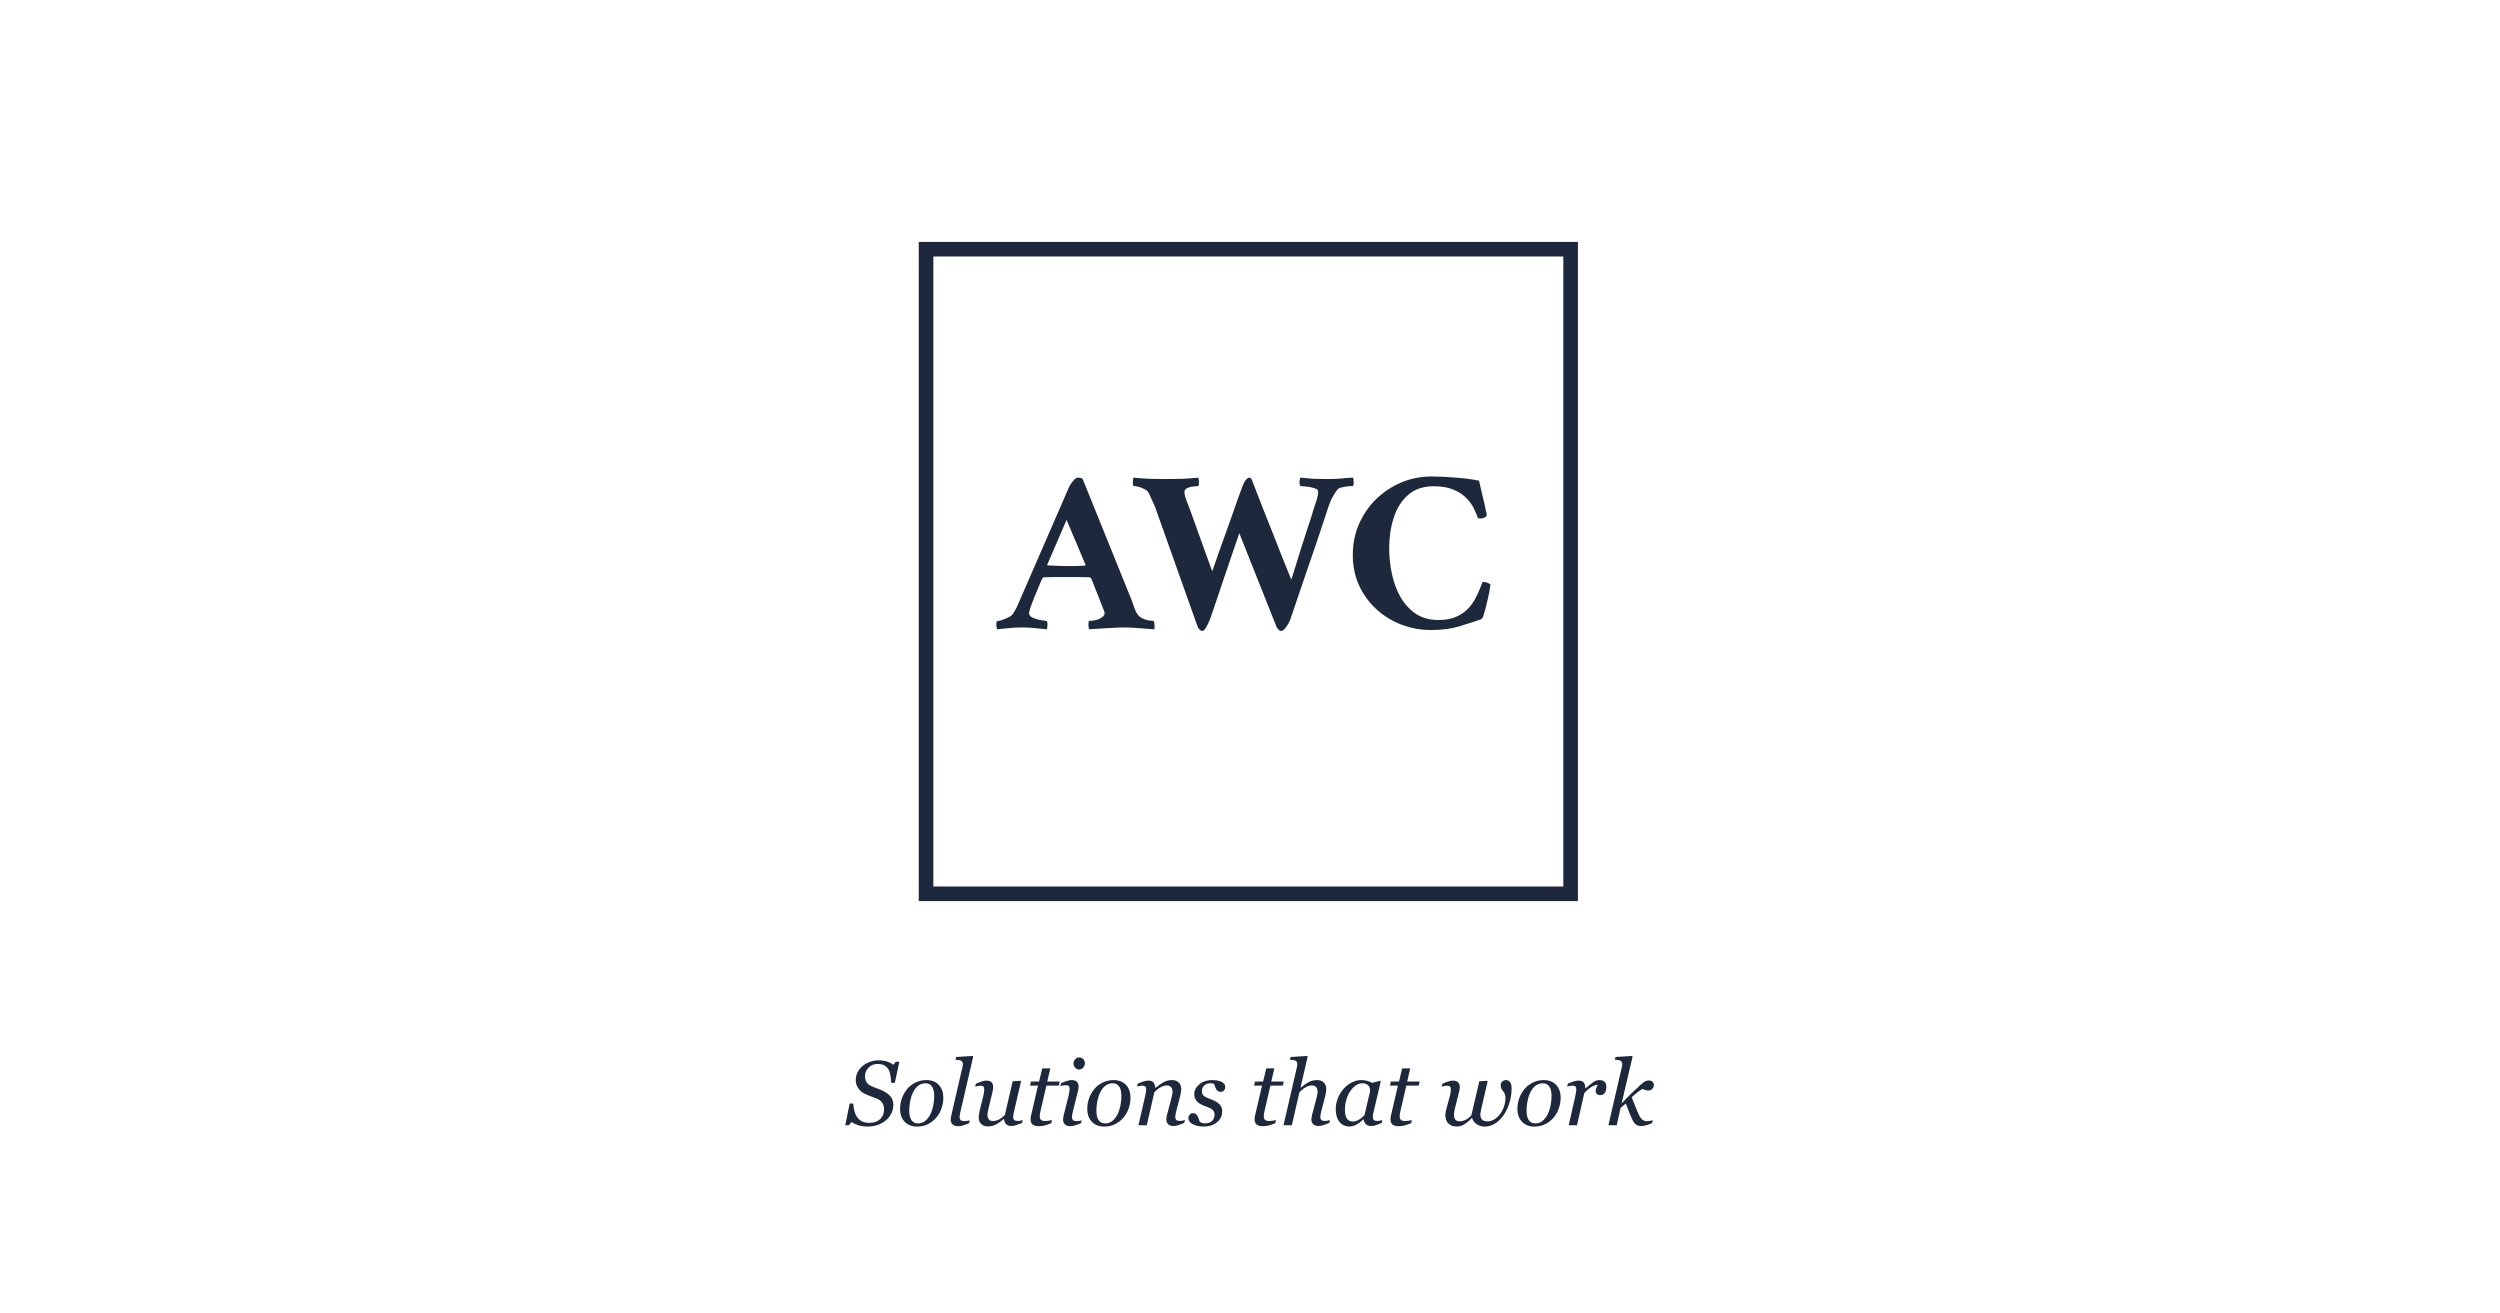
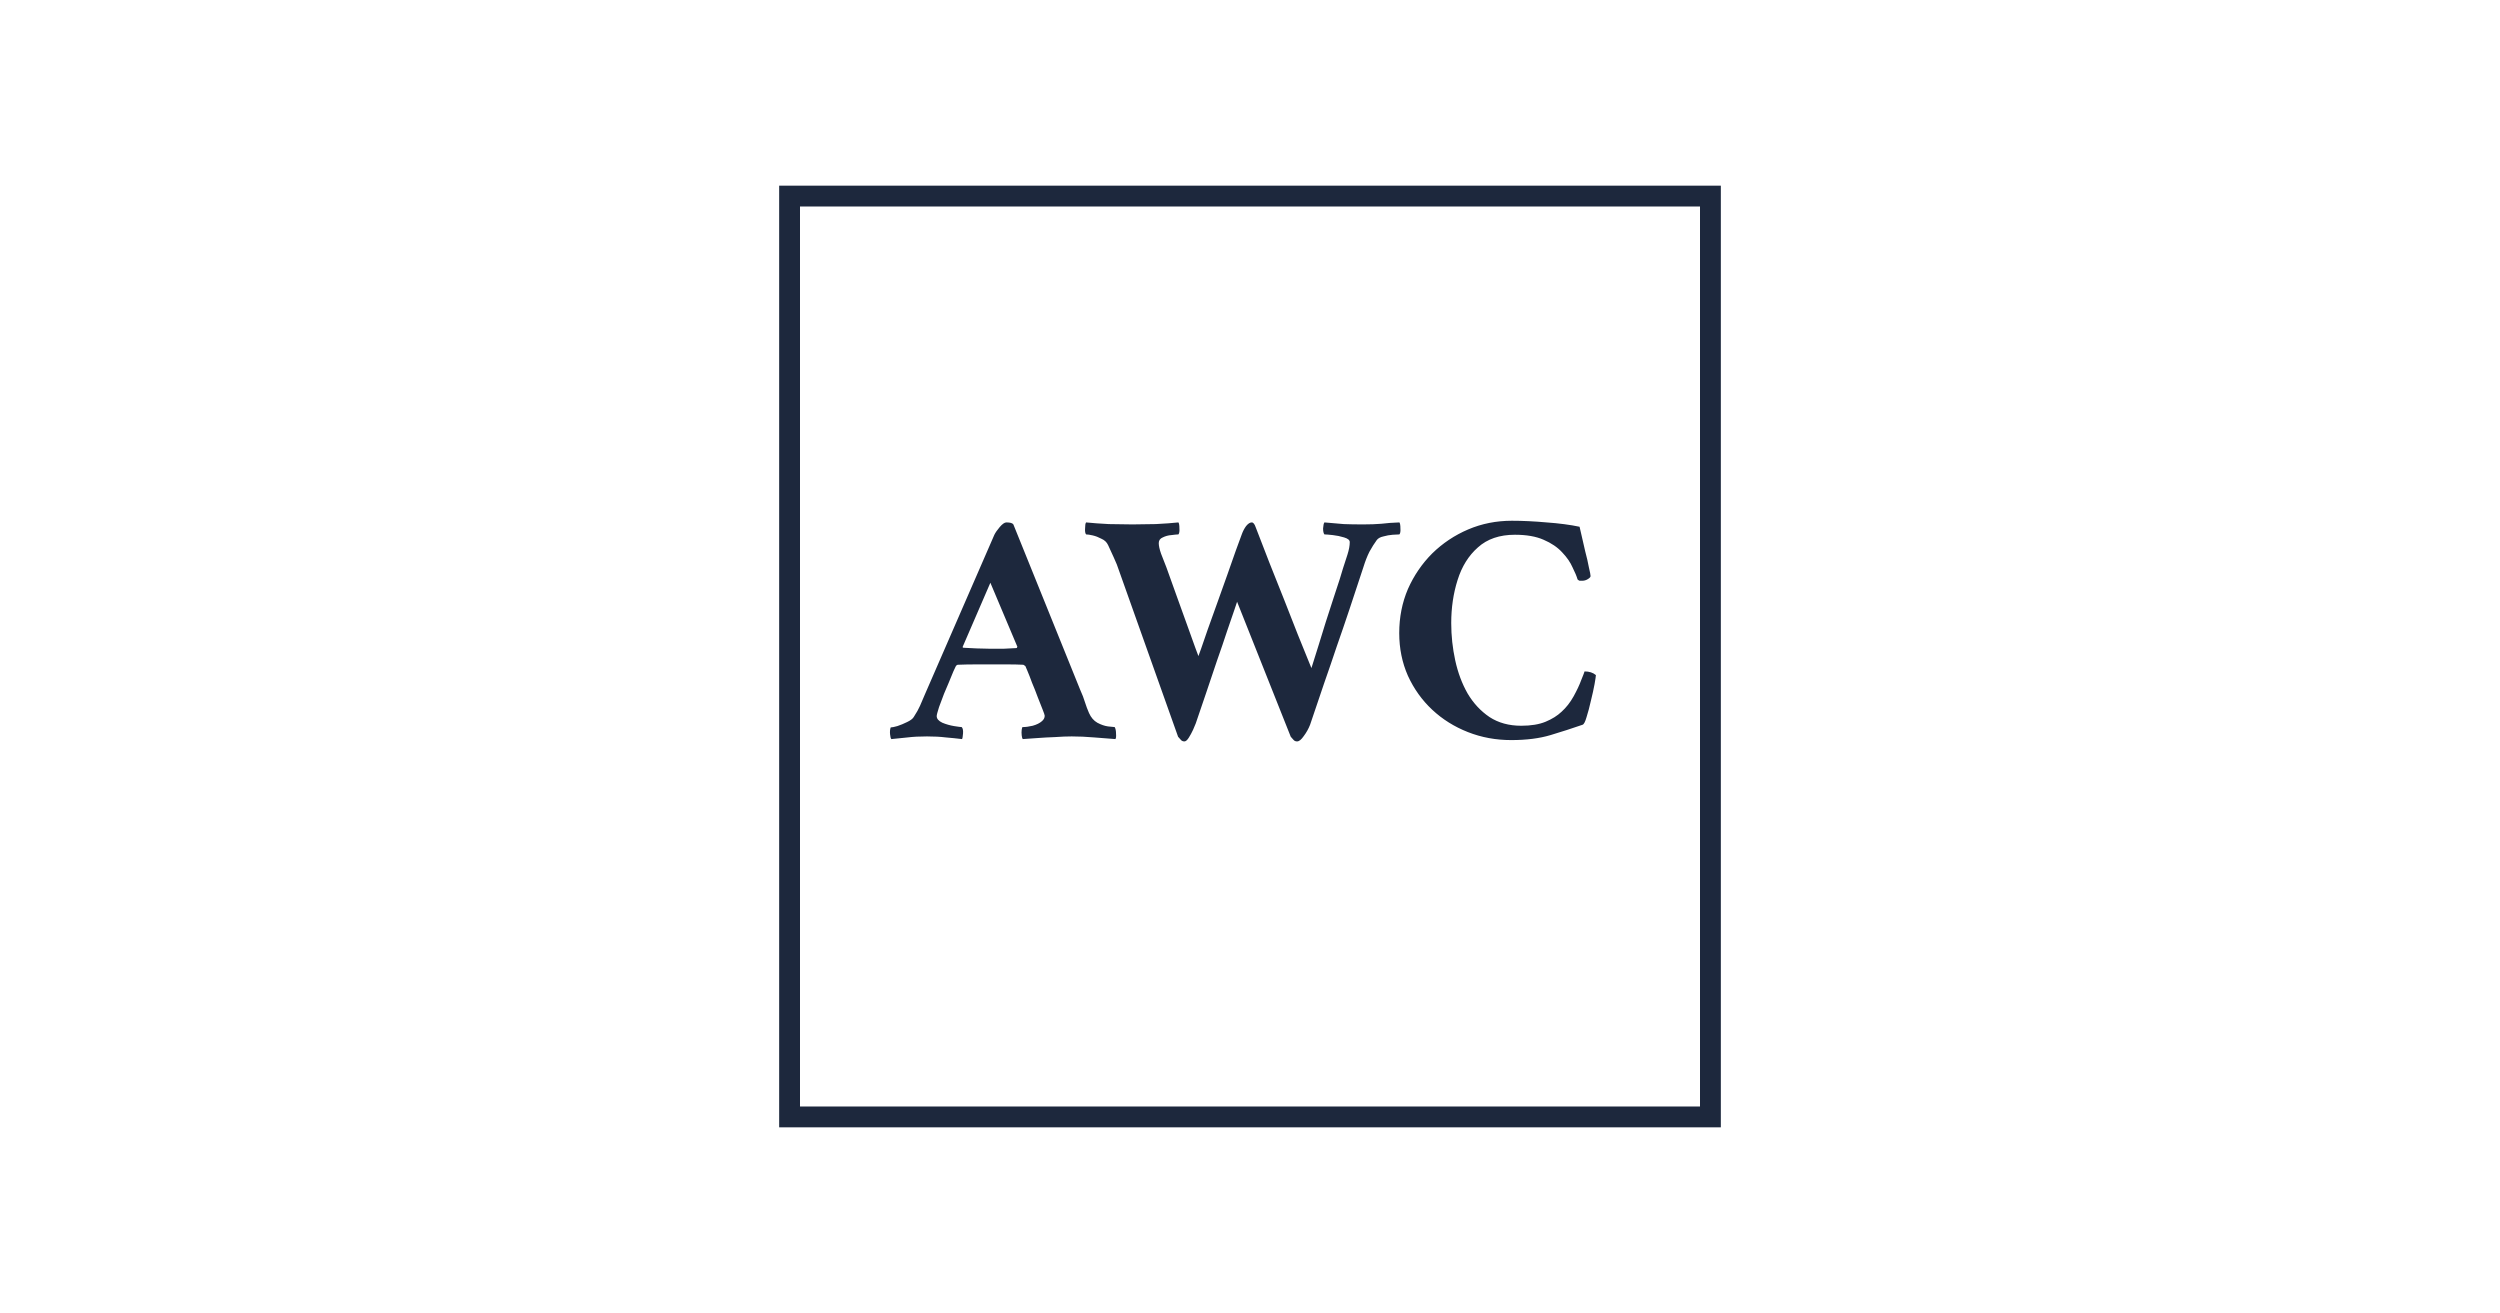
Refocus metadata on small business and simplify OG image
Retitles the site around the actual value proposition — helping small
businesses build AI tools that eliminate busywork — instead of the
generic "AI Consulting That Works" framing. Description, OG, and
Twitter metadata all pulled from one source so they stay in sync.

Also strips the "Solutions that work" tagline from the OG image and
scales the logo to fill the canvas, so it reads cleanly when
platforms crop the preview to a square thumbnail.

Changed region(s): [[0.312, 0.1249, 0.6864, 0.8743]]

diff --git a/src/app/layout.tsx b/src/app/layout.tsx
@@ -15,24 +15,25 @@ const lexend = Lexend({
   display: "swap",
 });
 
+const title = "AWC — AI Solutions for Small Business";
+const description =
+  "Cut the busywork. We help small businesses build practical AI tools that give your team back their time.";
+
 export const metadata: Metadata = {
   metadataBase: new URL("https://amwarr.com"),
-  title: "AWC — AI Consulting That Works",
-  description:
-    "AI coaching and strategic assessments for individuals, teams, and organizations. 700+ implementations. Process-first. Outcome-focused.",
+  title,
+  description,
   openGraph: {
-    title: "AWC — AI Consulting That Works",
-    description:
-      "AI coaching and strategic assessments for individuals, teams, and organizations. 700+ implementations. Process-first. Outcome-focused.",
+    title,
+    description,
     siteName: "AWC",
     type: "website",
     locale: "en_US",
   },
   twitter: {
     card: "summary_large_image",
-    title: "AWC — AI Consulting That Works",
-    description:
-      "AI coaching and strategic assessments for individuals, teams, and organizations. 700+ implementations. Process-first. Outcome-focused.",
+    title,
+    description,
   },
 };
 